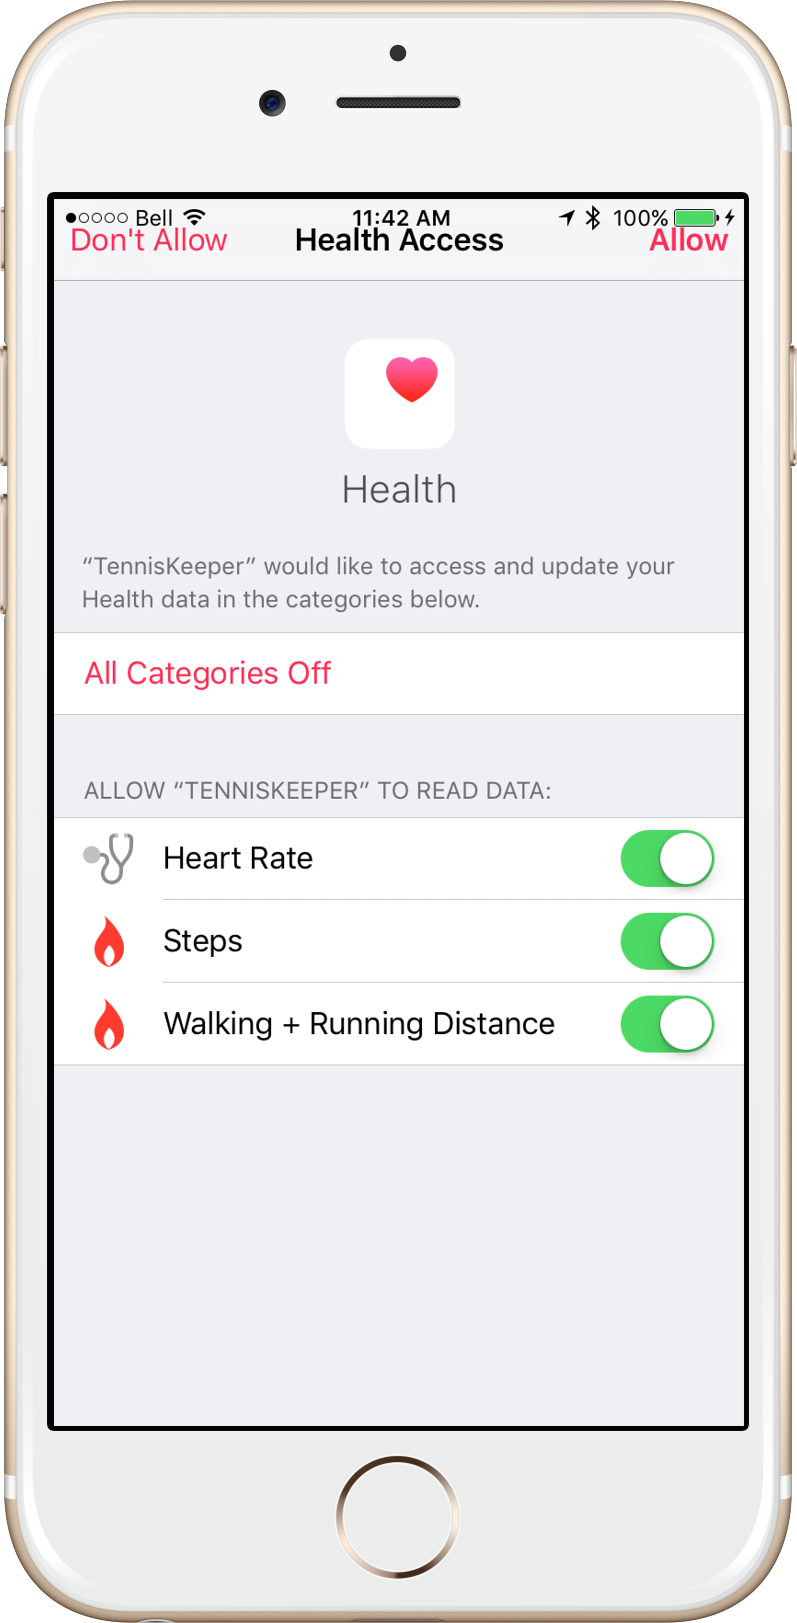
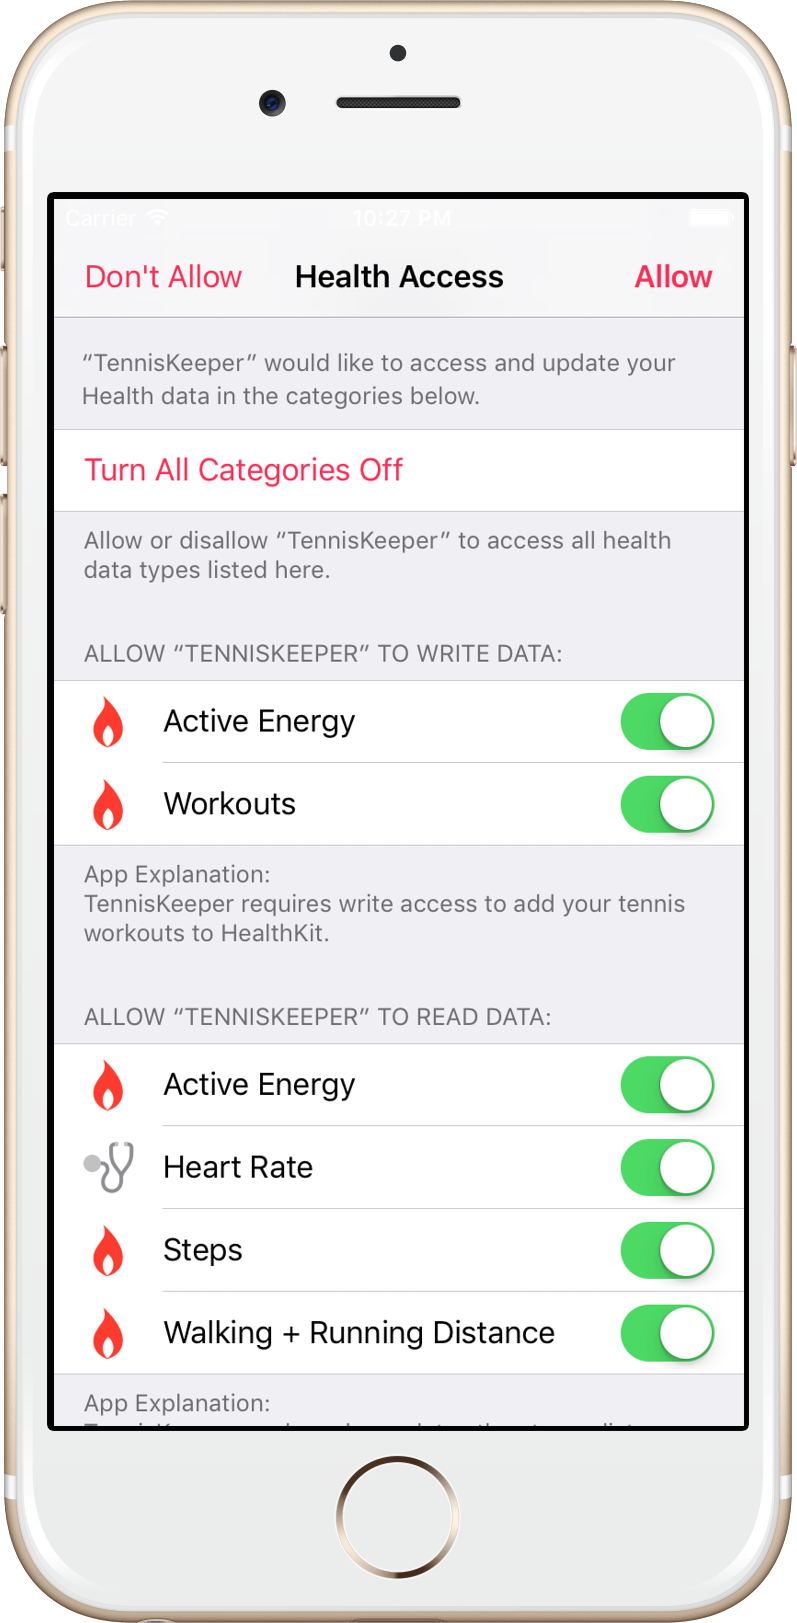
fix

diff --git a/support/health.html b/support/health.html
@@ -102,12 +102,16 @@
                     
                             </p>
                         
+                            <p class="lead">
+                            When you start a tennis activity from your Apple Watch, or when you save a new tennis activity from your iPhone, with your permission, the activity will be added to your Apple Health as 
+                            a <i>Workout</i> session. If you delete the tennis activity, the <i>Workout</i> session will be automatically removed.
+
                             <p class="lead">To enable TennisKeeper to access your Apple Health data, when prompted, turn all categories on and
                             tap <b>Allow</b>.
                             </p>
                             <br/>
                             <p>
-                            <img class="img-responsive" src="healthdata.png" width="350" alt="Apple Health">
+                            <img class="img-responsive" src="healthdata.png" width="400" alt="Apple Health">
                             </p>
                             
                             <p class="lead">You can also go directly to the Apple Health App and change your preferences any time. For example:
@@ -118,6 +122,27 @@
                             </ol>
                             </p>
                     
+                            <br>
+                            <h3>Your Health App</h3>
+                            <p class="lead">To review your tennis workout sessions:</p>
+                            <ol class="lead">
+                            <li>Open your Health app.
+                            <li>Tap Sources.
+                            <li>Locate the TennisKeeper app.
+                            <li>Tap Data.
+                            <li>Tap Workouts to view all your tennis workouts.
+                            </ol>
+                            
+                            <br>
+                            <h3>Your Activity App</h3>
+                            <p class="lead">To see the credit you get from your tennis workout:</p>
+                            <ol class="lead">
+                            <li>Open your Activity app.
+                            <li>Go to Workouts to see the sessions added by TennisKeeper.
+                            </ol>
+
+                           <p class="lead">See this <a href="https://medium.com/tenniskeeper/track-your-footwork-using-apple-watch-d84be650f751#.2m1uegf79">blog article</a> 
+                            for additional information.</p>
                     </div>
                 </div>
             </div>

diff --git a/support/applewatch_trouble_shooting.html b/support/applewatch_trouble_shooting.html
@@ -96,7 +96,7 @@
 
                             <ol class="lead">
                             <li>Make sure your iPhone is connected to your Apple Watch. You can validate if the phone is connected to your Apple Watch by testing the connection on the Apple Watch from the Control Centre and hearing a clear ping sound. 
-                            See the <a href="https://support.apple.com/en-ca/HT205025">Apple Support link</a> for more instructions
+                            See the <a href="https://support.apple.com/en-ca/HT205025">Apple Support link</a> for more instructions.
 
                             
 
